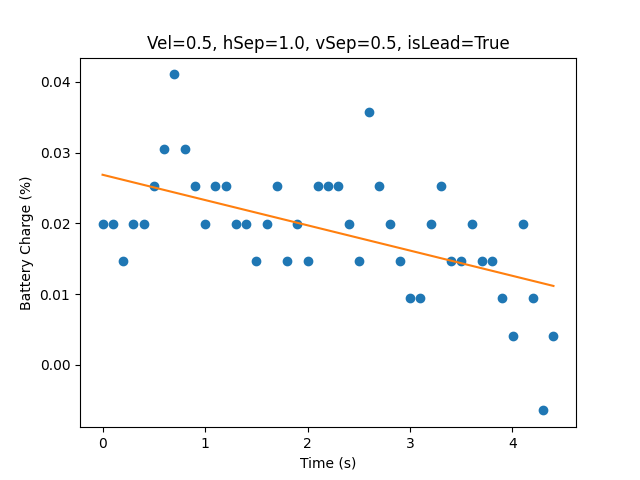
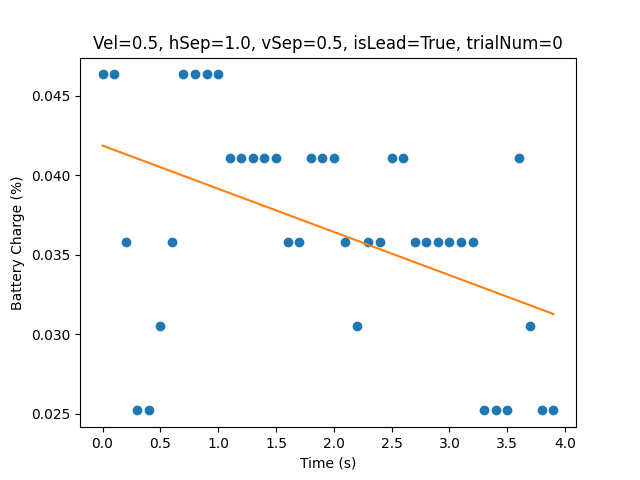
Updated the battery level plotting function to accurately plot all the .csv files and label them properly.

diff --git a/ParseData.py b/ParseData.py
@@ -116,12 +116,17 @@ def ExtractHeaderFromFile(fileName: str) -> Tuple[float, float, float, bool]:
 
     heightAboveDefault = lines[8].split(":")
     heightAboveDefault = float(heightAboveDefault[1])
+
+    # Determines whether the drone was leading or trailing based on its extra vertical height.
     if (heightAboveDefault == 0.0):
         leading = False
     else:
         leading = True
+    
+    trialNum = lines[9].split(":")
+    trialNum = int(trialNum[1])
 
-    return velocity, horizontalSeparation, verticalSeparation, leading
+    return velocity, horizontalSeparation, verticalSeparation, leading, trialNum
 
 def ExtractBatteryUsageFromFolder(folder: str, percentage: bool=False) -> dict[tuple[float, float, float, bool], float]:
     """Extracts the battery usage for each trial from a folder.
@@ -150,7 +155,7 @@ def ExtractBatteryUsageFromFolder(folder: str, percentage: bool=False) -> dict[t
     numEntries = {}
 
     for file in os.listdir(folder):
-        vel, horiz, vert, leading = ExtractHeaderFromFile(folder + "/" + file)
+        vel, horiz, vert, leading, trialNum = ExtractHeaderFromFile(folder + "/" + file)
         key = (vel, horiz, vert, leading)
 
         rate = ExtractBatteryUsageRateFromFile(folder + "/" + file)
@@ -230,12 +235,10 @@ def SaveBatteryPlotToFolder(fileName: str, outputFolder: str, convertToPercentag
     trendlineBatteryLevels = CreateTrendline(timestamps, batteryLevels)
 
     # Gets the file label.
-    vel, hSep, vSep, isLead = ExtractHeaderFromFile(fileName)
+    vel, hSep, vSep, isLead, trialNum = ExtractHeaderFromFile(fileName)
 
     # Determines the next valid file name.
-    fileNameIndex = 0
-    while (os.path.exists(outputFileName := f"({vel}, {hSep}, {vSep}, {isLead})-{fileNameIndex}")):
-        fileNameIndex += 1
+    outputFileName = f"({vel}, {hSep}, {vSep}, {isLead})-{trialNum}"
 
     # Plots the curve.
     plt.plot(timestamps, batteryLevels, 'o')
@@ -243,7 +246,7 @@ def SaveBatteryPlotToFolder(fileName: str, outputFolder: str, convertToPercentag
     plt.plot(timestamps, trendlineBatteryLevels)
 
     # Writes the title and axis labels.
-    plt.title(f"Vel={vel}, hSep={hSep}, vSep={vSep}, isLead={isLead}")
+    plt.title(f"Vel={vel}, hSep={hSep}, vSep={vSep}, isLead={isLead}, trialNum={trialNum}")
     plt.xlabel("Time (s)")
     if convertToPercentage:
         plt.ylabel("Battery Charge (%)")
@@ -317,4 +320,4 @@ def ReplaceLineInFile(fileName: str, lineNumber: int, text: str) -> None:
 
 # file.write(f"\nTotal number of unique datasets: {len(ratesVoltage.keys())}")
 
-# PlotBatteryFromFolder("350mAh_logs", OUTPUT_FOLDER)
+PlotBatteryFromFolder(LOG_FOLDER, OUTPUT_FOLDER)
